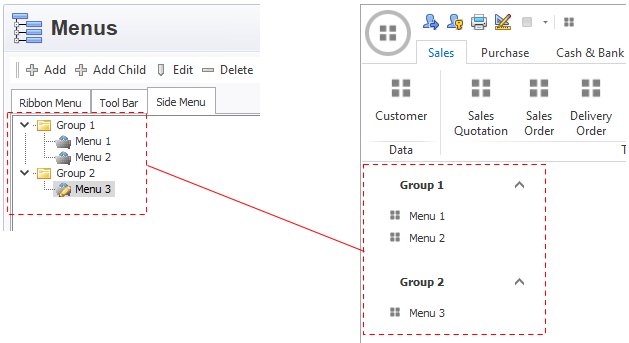
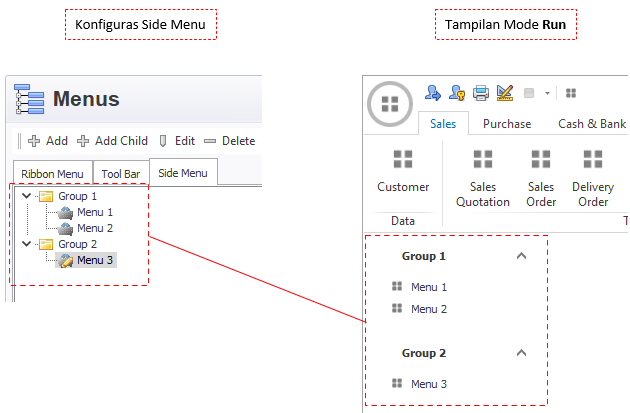
update konten

diff --git a/docs/metadata/data.md b/docs/metadata/data.md
@@ -8,17 +8,29 @@ sidebarDepth: 3
 
 ![Tombol Connections](/images/btn-con.png)
 
-**Connections** adalah modul untuk mengelola koneksi _database_ transaksi.
+Menu **Connections** adalah untuk mengelola koneksi _database_ transaksi.
 
-Berikut adalah tampilan form **Connections**
+Berikut adalah tampilan modul **Connections**
 
 ![Connections](/images/app-connections.png)
 
+Berikut adalah tampilan form **Connection Editor**
+
 ![Connection Editor](/images/app-conn-editor.png)
+
+- Connection:
+  - Connection Name : Nama koneksi
+  - Connection Type : Tipe koneksi, disesuaikan dengan _database_ yang digunakan
+- Parameters: Konfigurasi parameter _database_
+- Test Connection (tombol) : Untuk melakukan _test_ koneksi
 
 ## Datasets
 
 ![Tombol Datasets](/images/btn-dts.png)
+
+Menu **Datasets** adalah untuk melakukan pengelolaan **Data Set**.
+
+_Data Set_ adalah set data berbentuk matriks yang datanya berasal dari sebuah sistem _database_. Definisi _Data Set_ pada Epigoni tidak hanya mendefinisikan data apa yang ingin ditampilkan, tetapi juga mendefinisikan berbagai _attribute_ dari data yang dihasilkan, seperti: bagaimana data ditampilkan, di-_update_ dan lain-lain.
 
 ![Datasets](/images/app-datasets.png)
 

diff --git a/docs/metadata/application.md b/docs/metadata/application.md
@@ -76,7 +76,7 @@ Gambar berikut adalah form **Reset Administrator Password**.
 
 ![Tombol Menus](/images/btn-menus.png)
 
-Menu ini adalah untuk melakukan pengaturan menu aplikasi.
+Menu ini adalah untuk melakukan pengaturan menu aplikasi yang terbagi menjadi 3 (tiga) jenis menu yaitu [Ribbon Menu](../metadata/application.md#ribbon-menu), [Tool Bar Menu](../metadata/application.md#tool-bar), dan [SIde Menu](../metadata/application.md#side-menu).
 
 ### Ribbon Menu
 
@@ -93,6 +93,8 @@ Gambar berikut adalah contoh tampilan hasil dari pengaturan **Ribbon Menu** (gam
 ### Side Menu
 
 ![Side Menu](/images/side-menu-contoh.png)
+
+Berikut adalah tampilan form **Menu**.
 
 ![Menu Form](/images/app-menu-form.png)
 
